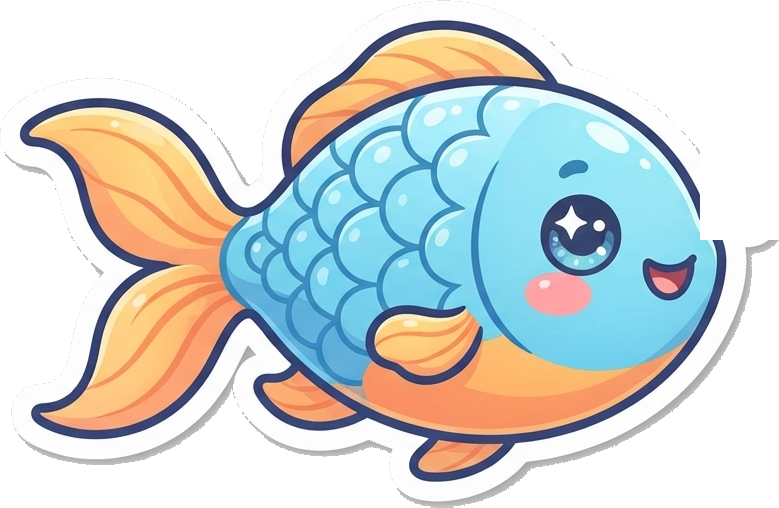
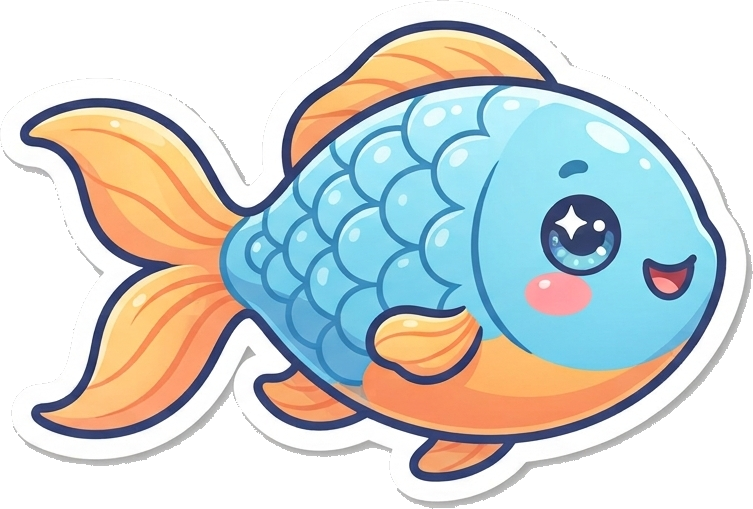
Add files via upload

Changed region(s): [[0.0305, 0.0295, 1.0, 1.0], [0.0611, 0.2067, 0.0916, 0.2362]]

diff --git a/monitor.html b/monitor.html
@@ -126,7 +126,7 @@ function popIn(l4){ const p = document.getElementById('pop'); p.innerHTML = `${l
 /* 8. 어항: 뒷자리 4개가 물고기처럼 헤엄침 + 거품 */
 const Fish = (() => {
   const c = document.getElementById('bg'), x = c.getContext('2d'); let W, H; const F = [], B = []; const seen = new Set();
-  const img = new Image(); img.src = 'fish.png'; const AR = 508 / 779, BELLY = { x: .62, y: .73 };      // fish.png: 오른쪽 보는 물고기, 배 위치 비율
+  const img = new Image(); img.src = 'fish.png'; const AR = 509 / 753, BELLY = { x: .63, y: .72 };      // fish.png: 오른쪽 보는 물고기, 배 위치 비율
   const size = () => { W = c.width = innerWidth; H = c.height = innerHeight; }; size(); addEventListener('resize', size);
   for (let i = 0; i < 40; i++) B.push({ x: Math.random() * innerWidth, y: Math.random() * innerHeight, r: 1 + Math.random() * 3, v: .2 + Math.random() * .5, a: Math.random() * 7 });
   const zones = () => [{ x: W * .37, y: H * .5, rx: W * .27, ry: H * .38 }, { x: W * .85, y: H * .52, rx: W * .14, ry: H * .3 }];   // 카운트·QR 영역은 비켜 다님
